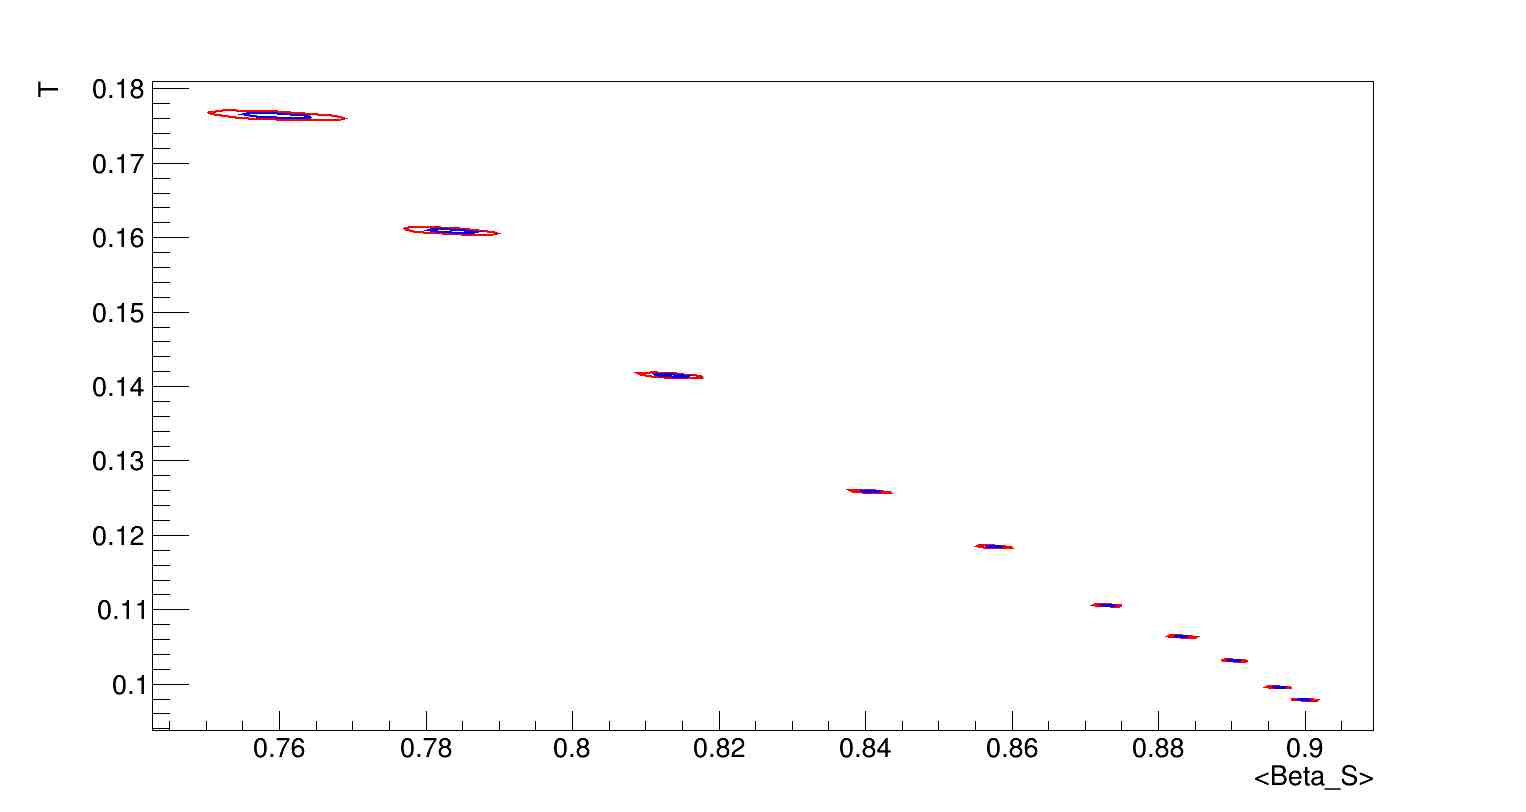
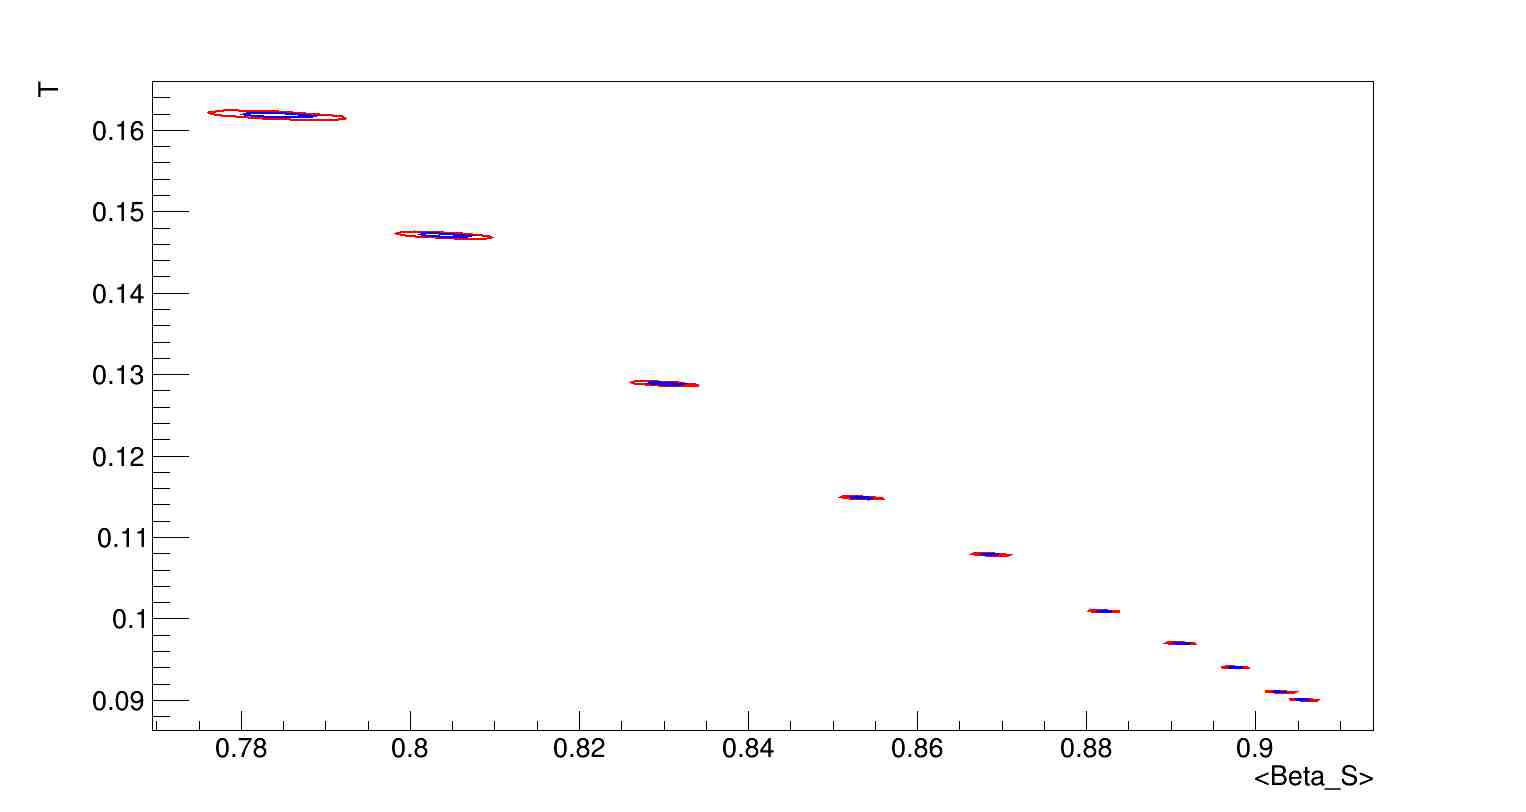
Add files via upload

diff --git a/BOUCLE.cpp b/BOUCLE.cpp
@@ -86,7 +86,7 @@ double expo_law(double *x , double *par)
 double boltzmann(double *x , double *par)
 {
 	double m_T = sqrt(x[0]*x[0] + par[1]*par[1]);
-	double res = 2*TMath::Pi()*par[0]*x[0]*m_T*exp(- (m_T - par[1]) / par[2]);
+	double res = par[0]*x[0]*m_T*exp(- (m_T - par[1]) / par[2]);
 	return res;
 }
 
@@ -162,7 +162,7 @@ double blast_wave(double *x , double *par)
 	    r_0 = a + i*h;   // x_i
 	    r_1 = a + (2*i+1)*h/2;  // ( x_{i} + x_{i+1} ) / 2               
 	    r_2 = a + (i+1)*h;   // x_{i+1}
-	    z +=  2*TMath::Pi()*par[0]*x[0]*m_T*R*R*(   r_0*TMath::BesselI0( x[0]*TMath::SinH( TMath::ATanH( TMath::Power( r_0 , par[3] ) * par[4]  )) / par[2] ) * TMath::BesselK1( m_T*TMath::CosH( TMath::ATanH(  TMath::Power( r_0 , par[3] ) * par[4] ) ) / par[2])  
+	    z +=  x[0]*m_T*par[0]*R*R*2*TMath::Pi()*(   r_0*TMath::BesselI0( x[0]*TMath::SinH( TMath::ATanH( TMath::Power( r_0 , par[3] ) * par[4]  )) / par[2] ) * TMath::BesselK1( m_T*TMath::CosH( TMath::ATanH(  TMath::Power( r_0 , par[3] ) * par[4] ) ) / par[2])  
 	    + 4*r_1*TMath::BesselI0( x[0]*TMath::SinH( TMath::ATanH( TMath::Power( r_1 , par[3] ) * par[4]  )) / par[2] ) * TMath::BesselK1( m_T*TMath::CosH( TMath::ATanH(  TMath::Power( r_1 , par[3] ) * par[4] ) ) / par[2])  
 	    + r_2*TMath::BesselI0( x[0]*TMath::SinH( TMath::ATanH( TMath::Power( r_2 , par[3] ) * par[4]  )) / par[2] ) * TMath::BesselK1( m_T*TMath::CosH( TMath::ATanH(  TMath::Power( r_2 , par[3] ) * par[4] ) ) / par[2])  );
 	}
@@ -261,7 +261,7 @@ int main(){
 	int number ;
 	cout << " quelle particule étudier vous ? proton, mesonphi " << endl;
 	cin >> particule ;
-	cout << " quelle type de collision étudier vous ? pp, pbpb " << endl;
+	cout << " quelle type de collision étudier vous ? pp, PbPb " << endl;
 	cin >> collision ;
 	if(particule[0]=='p'){
 		masse=0.938 ;
@@ -304,19 +304,19 @@ int main(){
 	char error_stat[] = "Hist1D_yX_e1" ;
 	int digit, Nbinx ;
 	double a , b ;
-	double Scale_Histo[11], SCALE[11] , SCALE2[11], SCALE3[11], NSCALE[11], SCALE_BOL[11] , T_value[11], Beta_T_value[11],A_value[11],chi2_expo, ndf_expo, chindf_expo, chi2_levy, ndf_levy, chindf_levy;
+	double Scale_Histo[11], SCALE[11] , SCALE2[11], SCALE3[11], NSCALE[11], SCALE_BOL[11] , T_value[11], Beta_T_value[11],A_value[11],chi2_expo, ndf_expo, chindf_expo, chi2_levy, ndf_levy, chindf_levy, Beta_S_value[11];
 	
 	
-	SCALE[1]=38605 ;
-	SCALE[2]=26540 ;
-	SCALE[3]=14013 ;	
-	SCALE[4]=7204 ;
-	SCALE[5]=3361 ;
-	SCALE[6]=1133 ;
-	SCALE[7]=401 ;
-	SCALE[8]=82 ;
-	SCALE[9]=15 ;
-	SCALE[10]=3.2 ;
+	SCALE[1]=101276 ;
+	SCALE[2]=73945 ;
+	SCALE[3]=39170 ;	
+	SCALE[4]=19521 ;
+	SCALE[5]=8718 ;
+	SCALE[6]=2840 ;
+	SCALE[7]=945 ;
+	SCALE[8]=182 ;
+	SCALE[9]=30 ;
+	SCALE[10]=6 ;
 
 	
 	SCALE2[1]=1943 ;
@@ -374,24 +374,46 @@ int main(){
 	Beta_T_value[9]=0.435;
 	Beta_T_value[10]=0.355;
 	
+	Beta_S_value[1]=0.906;
+	Beta_S_value[2]=0.902;
+	Beta_S_value[3]=0.897;
+	Beta_S_value[4]=0.890;
+	Beta_S_value[5]=0.879;
+	Beta_S_value[6]=0.865;
+	Beta_S_value[7]=0.849;
+	Beta_S_value[8]=0.825;
+	Beta_S_value[9]=0.799;
+	Beta_S_value[10]=0.740;
 	
-	double par[5],err[5], parlevy[5],errlevy[5];
+	
 	TString contours_sigma_output="contours_sigma.root";
-		TFile *Contours_sigma_output = new TFile(contours_sigma_output, "RECREATE");
+	TFile *Contours_sigma_output = new TFile(contours_sigma_output, "RECREATE");
 	TString outputfilename="result.root" ;
-		TFile* OutputHisto = new TFile(outputfilename, "RECREATE");
-		TFile *myFile = new TFile(file);
-		TDirectoryFile* dirFile = (TDirectoryFile*)myFile->Get(table);
+	TFile* OutputHisto = new TFile(outputfilename, "RECREATE");
+	TFile *myFile = new TFile(file);
+	TDirectoryFile* dirFile = (TDirectoryFile*)myFile->Get(table);
+	hist=(TH1F*)dirFile->Get("Hist1D_y1");
+	Nbinx = hist->GetNbinsX();
+	double X[Nbinx];  // x axis of the plot
+	double Y[Nbinx];  // y axis of the plot
+	double Xerr[Nbinx];  // we take into account the width of a bin (this is not an error strictly speaking!)
+	double Yerr[Nbinx];  // error on y axis
+	double par[5],err[5], parlevy[5],errlevy[5];
+
 	TCanvas *test1 = new TCanvas("test1","DATA",0,0,700,500);
 		test1->SetGrid();
 		test1->SetLogy();
 	TCanvas *ROMAIN = new TCanvas("FIT BLAST-WAVE" , " BLAST_WAVE " , 200 , 200 );
 		ROMAIN->SetGrid();
 		ROMAIN->SetLogy();
+	TCanvas *DATA_MODEL = new TCanvas("DATA_MODEL","DATA_MODEL",200,10,600,400);
+	DATA_MODEL->SetGrid();
 	TCanvas *CONTOUR = new TCanvas("CONTOUR" , " Contour " , 200 , 200 );
 	TMultiGraph  *mg  = new TMultiGraph();
 		mg->SetTitle(" ;<Beta_S>; T");  // we set the title of the graph, and the one of the axis
-	
+	TMultiGraph  *DM = new TMultiGraph();
+		DM->SetTitle(" ;Pt (Gev/c) ; Data / BW-FIT ");
+//-------------------------------------------------------------------DEBUT DU BOUCLAGE SUR TOUT LES FICHIER---------------------------------------------
 	for(int digit=1 ; digit<= number ; digit++){
 		OutputHisto->cd();
 
@@ -407,11 +429,6 @@ int main(){
 			H1_pp_E1=(TH1F*)dirFile->Get("Hist1D_y10_e1");
 			//
 			}
-		cout<<" "<<endl;
-		cout<<" "<<endl;
-		cout<<"data = "<<data<<endl;
-		cout<<" "<<endl;
-		cout<<" "<<endl;
 		hist->SetNameTitle(" Table 5" , "pT-distributions " );
 		hist->SetXTitle("p_{T} [GeV/c]");
 		hist->SetYTitle("(1/Nev)*d^2(N)/dPtdYrap  [Gev/c] ");
@@ -445,7 +462,7 @@ int main(){
 	// FIT BLAST WAVE	
 		TMinuit *gMinuit_BL = new TMinuit(5);
 			gMinuit_BL->SetFCN(fcn_blast_wave);
-			gMinuit_BL->DefineParameter(0, "A", SCALE[digit], 0.1, 0, 100000);
+			gMinuit_BL->DefineParameter(0, "A", SCALE[digit], 0.1, 0, 1000000);
 			
 			gMinuit_BL->FixParameter(0);
 			gMinuit_BL->DefineParameter(1, "m_0",masse, 0.01, 0.1,2);
@@ -454,7 +471,7 @@ int main(){
 			//gMinuit_BL->FixParameter(2);
 			gMinuit_BL->DefineParameter(3, "n", NSCALE[digit], 0.01, 0, 20);
 			gMinuit_BL->FixParameter(3);	
-			gMinuit_BL->DefineParameter(4, "beta_s", Beta_T_value[digit], 0.01, 0, 1);
+			gMinuit_BL->DefineParameter(4, "beta_s", Beta_S_value[digit], 0.01, 0, 1);
 			//gMinuit_BL->FixParameter(4);
 		gMinuit_BL->Command("MIGRAD");
 		gMinuit_BL->Command("MINOS");
@@ -474,16 +491,17 @@ int main(){
 		hist->Draw("same");
 		curve->Draw("csame");
 		//myfile2.open("resultat_BL.txt");
-		myfile2 << " Centrality fichier :"<<digit<<"	 "<<par[0]<<"		"<<(par[4]/(2/2+par[3]))<<"	"<<par[2]<<"	"<<par[3]<<"	"<<endl;
+		myfile2 << " Centrality fichier :"<<digit<<"	 "<<par[0]<<"		"<<(par[4]*(2/(2+par[3])))<<"	"<<par[2]<<"	"<<par[3]<<"	"<<endl;
 		//myfile2.close();
+		
    	gMinuit_BL->SetErrorDef(4); //note 4 and not 2!
-   	TGraph *gr2 = (TGraph*)gMinuit_BL->Contour(10,4,2);
+   	TGraph *gr2 = (TGraph*)gMinuit_BL->Contour(25,4,2);
    	gr2->SetFillColor(42);
    	gr2->SetLineColor(kRed);
    	gr2->SetLineWidth(2);
    //Get contour for parameter 2 versus parameter 4 for ERRDEF=1
    	gMinuit_BL->SetErrorDef(1);
-   	TGraph *gr1 = (TGraph*)gMinuit_BL->Contour(10,4,2);
+   	TGraph *gr1 = (TGraph*)gMinuit_BL->Contour(25,4,2);
    	gr1->SetFillColor(38);
    	gr1->SetLineColor(kBlue);
    	gr1->SetLineWidth(2);
@@ -508,7 +526,7 @@ int main(){
 		gMinuit_LEVY->FixParameter(1);
 		gMinuit_LEVY->DefineParameter(2, "T", 0.6, 0.01, 0, 2);
 		gMinuit_LEVY->DefineParameter(3, "n", 7.79, 0.01, 0, 20);
-		//gMinuit_LEVY->FixParameter(3);	
+		gMinuit_LEVY->FixParameter(3);	
 		gMinuit_LEVY->Command("MIGRAD");
 		gMinuit_LEVY->Command("MINOS");
 
@@ -527,16 +545,44 @@ int main(){
 		hist->Draw("same");
 		curve1->Draw("csame");
 		//myfile.open();
-		myfile <<"Centrality fichier "<< digit<<"	" << par[0] << "	" << err[0] << "	" << 100*simpson(levy,parlevy,0,a,1000)/simpson(levy,parlevy,0,b,1000) << "			" <<" incertitude"<<"	"<< mean_p_T(levyPT,levy,parlevy,20)<< "	"<< endl;
+		myfile <<"Centrality fichier "<< digit<<"	" << parlevy[0] << "	" << err[0] << "	" << 100*simpson(levy,parlevy,0,a,1000)/simpson(levy,parlevy,0,b,1000) << "			" <<" incertitude"<<"	"<< mean_p_T(levyPT,levy,parlevy,20)<< "	"<< endl;
 		//myfile.close();
-		
-	}
+
+// DATA / MODEL FIT	
+	Data_Model(X,Y,Xerr,Yerr,blast_wave,par);
+	// we create the graph to plot Data/Model fit with rectangle errors
+	TGraphErrors *dataModel = new TGraphErrors(Nbinx,X,Y,Xerr,Yerr);
+	dataModel->GetXaxis()->SetLimits(1,5);
+	dataModel->SetLineColor(digit);
+	dataModel->SetLineWidth(2);
+	dataModel->SetDrawOption("A5PX");
+	dataModel->SetMarkerColor(digit);
+	dataModel->SetMarkerSize(1);
+	dataModel->SetMarkerStyle(21);
+	dataModel->SetTitle(" ;p_T (GeV/c); Data / model fit");
+	dataModel->SetLineWidth(2);
+	//We Store the graph in a Multigraph
+	DM->Add(dataModel);
+	//dataModel->Draw("A5");   // A has to be there (if not, nothing appears on the canvas) & 5 is to plot error rectangles
+	//dataModel->Draw("PX");   // P is to put the chosen marker & X to remove the error bars (leave only the rectangles)
 	
+	
+	}
+//-----------------------------------------------------------------------------FIN DU BOUCLAGE SUR LES FICHIERS----------------------------------------	
 	Contours_sigma_output -> cd();  // we save the 2-sigma contours 
 	CONTOUR->cd();
 	mg->Draw("AL");
-	CONTOUR->Write();    
+	CONTOUR->Write();
 	OutputHisto->cd();
+	DATA_MODEL->cd();
+	DM->Draw("AL");
+	// we plot a lin at y=1 to show the deviation to Data = Model fit	
+	TLine *line = new TLine(0,1,b,1);
+	line->SetLineColor(30);
+	line->SetLineWidth(3);
+	line->SetLineStyle(2);
+	line->Draw("SAME");
+	DATA_MODEL->Write();
  	test1->Write();
 	ROMAIN->Write();
 	Contours_sigma_output -> Close();
@@ -552,39 +598,6 @@ for(int i = 1 ; i<=10 ; i++){
 	
 	
 	
-//-------------------------------------------------------------------------------------------------
-// DATA / MODEL FIT
-
-	double X[Nbinx];  // x axis of the plot
-	double Y[Nbinx];  // y axis of the plot
-	double Xerr[Nbinx];  // we take into account the width of a bin (this is not an error strictly speaking!)
-	double Yerr[Nbinx];  // error on y axis
-	
-	Data_Model(X,Y,Xerr,Yerr,blast_wave,par);
-	
-	//cout << "Yerr after = " <<  Yerr[Nbinx-1] << endl;
-	
-	TCanvas *c2 = new TCanvas("c2","c2",200,10,600,400);
-	c2->SetGrid();
-	// we create the graph to plot Data/Model fit with rectangle errors
-	TGraphErrors *dataModel = new TGraphErrors(30,X,Y,Xerr,Yerr);
-	dataModel->SetLineColor(2);
-	dataModel->SetLineWidth(2);
-	dataModel->SetMarkerColor(4);
-	dataModel->SetMarkerSize(1);
-	dataModel->SetMarkerStyle(21);
-	dataModel->SetTitle(" ;p_T (GeV/c); Data / model fit");
-	dataModel->SetLineWidth(2);
-	dataModel->Draw("A5");   // A has to be there (if not, nothing appears on the canvas) & 5 is to plot error rectangles
-	dataModel->Draw("PX");   // P is to put the chosen marker & X to remove the error bars (leave only the rectangles)
-	
-	// we plot a lin at y=1 to show the deviation to Data = Model fit
-	TLine *line = new TLine(0,1,b,1);
-	line->SetLineColor(30);
-	line->SetLineWidth(3);
-	line->SetLineStyle(2);
-	line->Draw("SAME");
-//----------------------------------------------------------------------------------------------------
 
 	OutputHisto->Close();
 }
